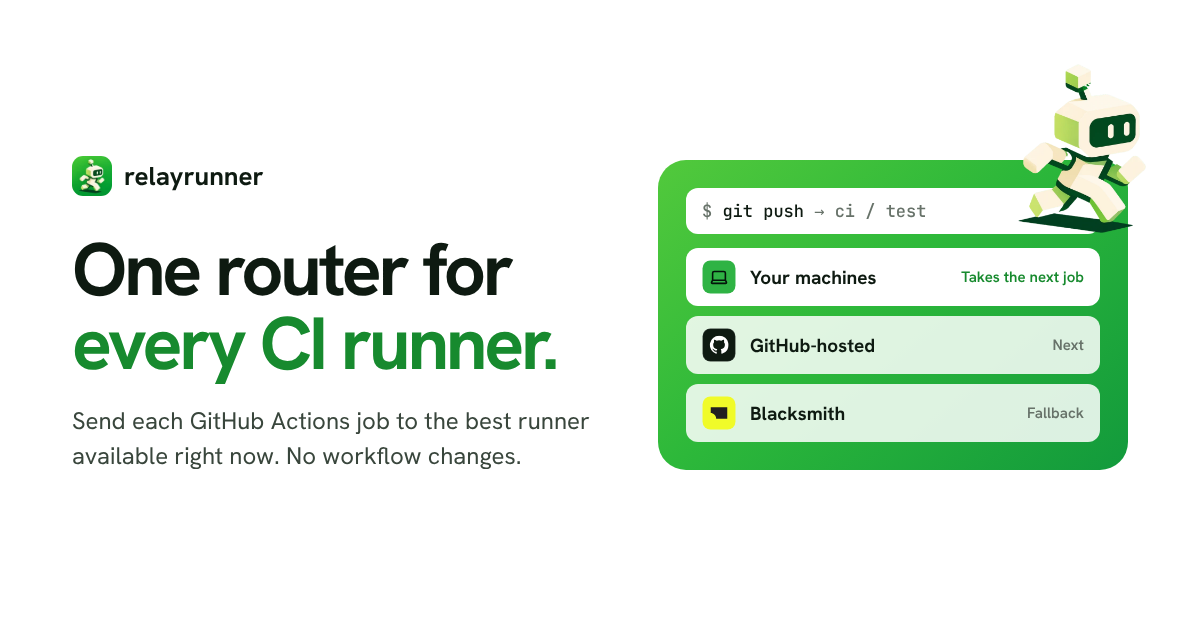
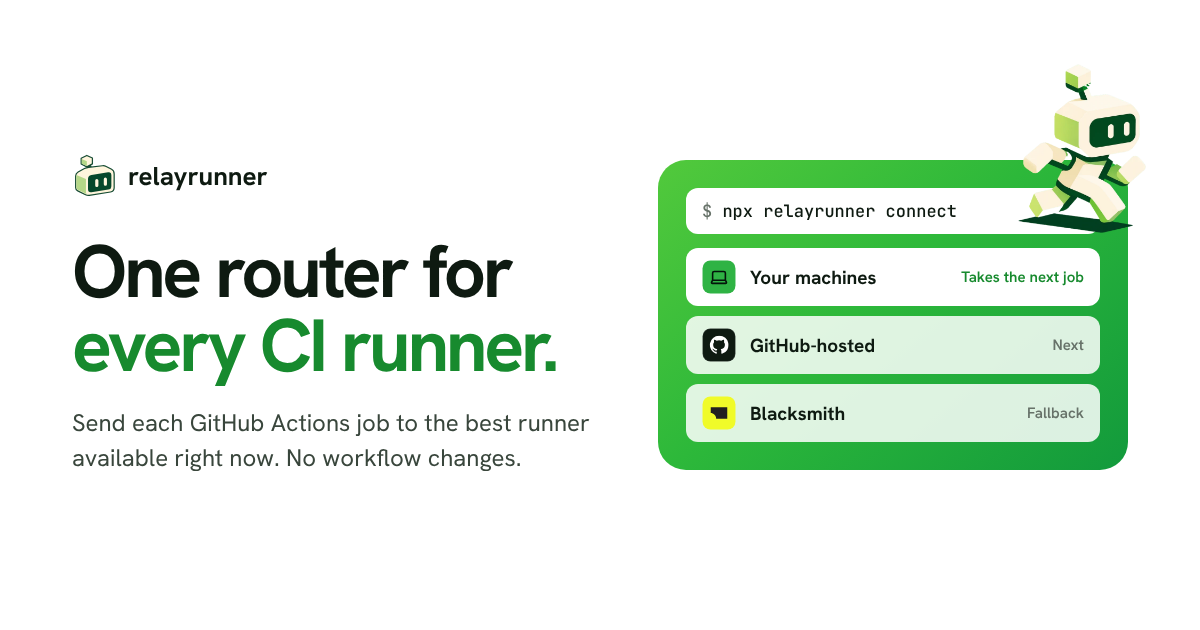
feat(site): lead the homepage with connecting your own machine
Claude-Session: https://claude.ai/code/session_01KeLbkgQgUTdHxHwwGUCjUt

diff --git a/apps/site/og/og-image.html b/apps/site/og/og-image.html
@@ -44,9 +44,8 @@
         font-weight: 700;
       }
       .brand img {
-        width: 40px;
-        height: 40px;
-        border-radius: 11px;
+        width: 44px;
+        height: 44px;
       }
       h1 {
         margin: 36px 0 0;
@@ -126,7 +125,7 @@
   <body>
     <div class="card">
       <div>
-        <div class="brand"><img src="../public/mascot-tile.webp" alt="" />relayrunner</div>
+        <div class="brand"><img src="../public/assets/runner-head.svg" alt="" />relayrunner</div>
         <h1>One router for <span>every CI runner.</span></h1>
         <p>
           Send each GitHub Actions job to the best runner available right now. No workflow changes.
@@ -134,7 +133,7 @@
       </div>
       <div class="panel">
         <img class="mascot" src="../public/mascot.webp" alt="" />
-        <div class="push"><span>$</span> git push <span>→ ci / test</span></div>
+        <div class="push"><span>$</span> npx relayrunner connect</div>
         <div class="lanes">
           <div class="lane on">
             <img src="../public/providers/machines.svg" alt="" />Your machines<em

diff --git a/apps/site/src/style.css b/apps/site/src/style.css
@@ -400,6 +400,12 @@ button {
   font-size: 15px;
   line-height: 1.5;
 }
+.provider-cmd {
+  display: block;
+  margin-top: 14px;
+  color: var(--go-text);
+  font-size: 13px;
+}
 .logo-row {
   display: flex;
   flex-wrap: wrap;
@@ -547,6 +553,17 @@ button {
 }
 .run {
   color: var(--run-text);
+}
+.go-text {
+  color: var(--go-text);
+}
+.connect-panel {
+  display: flex;
+  flex-direction: column;
+  gap: 14px;
+}
+.connect-panel .term-body {
+  font-size: 14px;
 }
 .machines {
   display: grid;
@@ -715,6 +732,23 @@ button {
   color: #0b3d1a;
   font-size: 18px;
 }
+.steps {
+  display: grid;
+  gap: 16px;
+  max-width: 560px;
+  margin-top: 28px;
+  padding: 0;
+  list-style: none;
+}
+.step-label {
+  display: block;
+  color: #0b3d1a;
+  font-size: 15px;
+  font-weight: 700;
+}
+.steps .instruction {
+  margin-top: 8px;
+}
 .instruction {
   display: flex;
   align-items: center;
@@ -871,7 +905,8 @@ button {
     margin-top: 12px;
     font-size: 16px;
   }
-  .provider-card p {
+  .provider-card p,
+  .provider-cmd {
     display: none;
   }
   .logo-row {

diff --git a/apps/site/src/pages/og/[...route].ts b/apps/site/src/pages/og/[...route].ts
@@ -11,7 +11,7 @@ export const { getStaticPaths, GET } = await OGImageRoute({
   getImageOptions: (_path, page) => ({
     title: page.title,
     description: page.description,
-    logo: { path: "./public/apple-touch-icon.png", size: [84] },
+    logo: { path: "./public/assets/runner-head.png", size: [96] },
     bgGradient: [[255, 255, 255]],
     border: { color: [23, 138, 46], width: 16, side: "block-start" },
     padding: 72,
